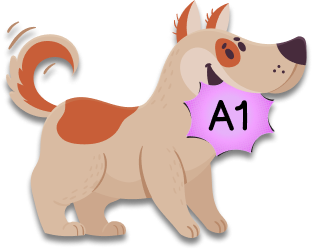
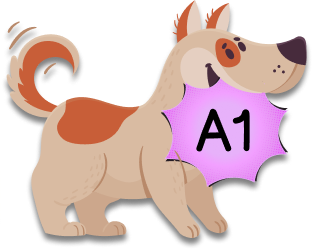
feat: add Resleeng assets for vocabulary styles

diff --git a/src/components/pages/vocabulary/_vocabulary.scss b/src/components/pages/vocabulary/_vocabulary.scss
@@ -4,7 +4,7 @@
   align-items: center;
 
   z-index: 0;
-  background: url("./assets/images/vocabulary/background-A1.svg") center / cover no-repeat;
+  background: url("./assets/images/vocabulary/background-A2.svg") center / cover no-repeat;
   min-height: calc(100vh - 82px - 82.5px);
 
   &__wrapper {
@@ -46,6 +46,18 @@
   --filter-accent: invert(84%) sepia(32%) saturate(6419%) hue-rotate(218deg) brightness(95%) contrast(93%);
   --filter-dark: invert(12%) sepia(57%) saturate(4414%) hue-rotate(277deg) brightness(85%) contrast(96%);
   --filter-dark-accent: invert(13%) sepia(42%) saturate(2118%) hue-rotate(257deg) brightness(90%) contrast(109%);
+}
+
+.a2 {
+  --color-main: #E5F9FF;
+  --color-btn: #BAEEFF;
+  --color-accent: #6ED4F4;
+  --color-dark: #0E6885;
+  --color-dark-accent: #034256;
+  --filter-btn: invert(96%) sepia(78%) saturate(2672%) hue-rotate(171deg) brightness(102%) contrast(103%);
+  --filter-accent: invert(91%) sepia(22%) saturate(4959%) hue-rotate(166deg) brightness(102%) contrast(91%);
+  --filter-dark: invert(14%) sepia(91%) saturate(4101%) hue-rotate(182deg) brightness(99%) contrast(89%);
+  --filter-dark-accent: invert(19%) sepia(25%) saturate(3291%) hue-rotate(162deg) brightness(93%) contrast(98%);
 }
 
 .words-page {
@@ -142,8 +154,7 @@
   }
 
   &.learned {
-    background-color: var(--color-btn);
-    background: url("./assets/images/icons/checkmark.svg") center no-repeat;
+    background: url("./assets/images/icons/checkmark.svg") center no-repeat, var(--color-btn);
   }
 
   &::after {
@@ -304,7 +315,7 @@
   display: flex;
   gap: 32px;
   justify-content: flex-end;
-  background-image: url("./assets/images/vocabulary/Resleeng-A1.png");
+  background-image: url("./assets/images/vocabulary/Resleeng-A2.png");
   background-position: 0px 0px;
   background-repeat: no-repeat;
   padding-left: 110px;
@@ -382,7 +393,7 @@
   gap: 24px;
   justify-content: space-between;
   align-items: center;
-  background: url("./assets/images/vocabulary/word-display-backgrnd-a1.svg") center/cover no-repeat;
+  background: url("./assets/images/vocabulary/word-display-backgrnd-a2.png") center/cover no-repeat;
   border: solid 5px $color-basic;
   padding: 16px 16px;
 

diff --git a/src/vocabulary-layout-temp.html b/src/vocabulary-layout-temp.html
@@ -12,7 +12,7 @@
 <body>
   <main class="vocab">
     <div class="vocab__wrapper wrapper">
-      <div class="vocab__container a1">
+      <div class="vocab__container a2">
         <div class="words-page">
           <div class="words-page__nav">
             <a href="#" class="words-page__return"><img src="./assets/images/icons/arrow-back.svg" alt="<">A1</a>
